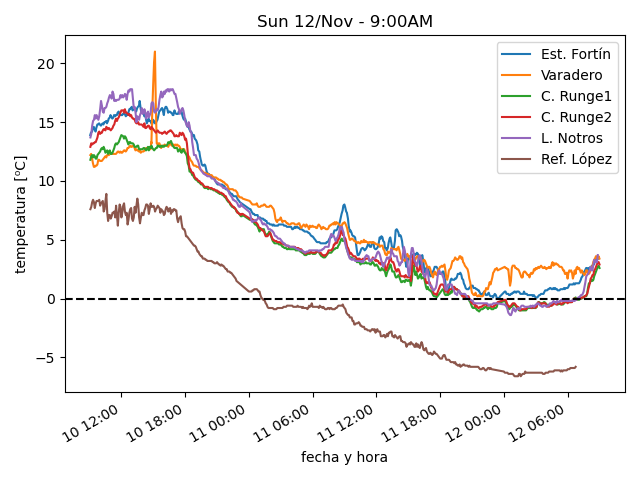
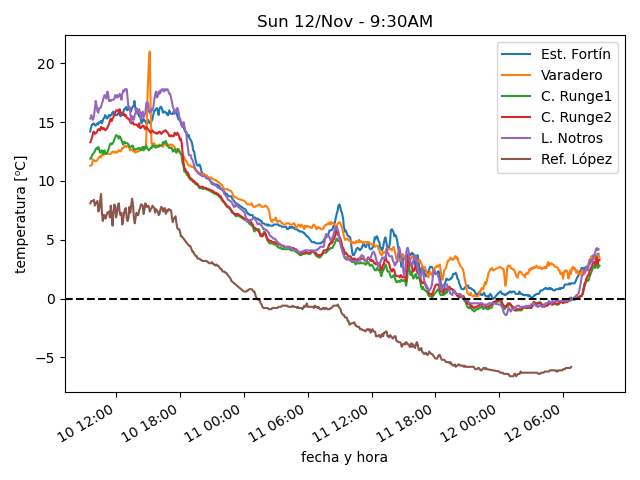
actualiza datos

diff --git a/estaciones/estacion4.html b/estaciones/estacion4.html
@@ -18,47 +18,47 @@
     </tr>
     <tr>
      <td class="stats_data">
-      8:59AM
+      9:24AM
      </td>
     </tr>
     <tr>
      <td class="stats_data">
-      2.9⁰C
+      3.3⁰C
      </td>
     </tr>
     <tr>
      <td class="stats_data">
-      -1.2⁰C
+      -1.1⁰C
      </td>
     </tr>
     <tr>
      <td class="stats_data">
-      74.7%
+      73.3%
      </td>
     </tr>
     <tr>
      <td class="stats_data">
-      1016.12hPa
+      1016.42hPa
      </td>
     </tr>
     <tr>
      <td class="stats_data">
-      0.7/1.8 km/hr WSW
+      1.8/2.8 km/hr SW
      </td>
     </tr>
     <tr>
      <td class="stats_data">
-      0.3 / 1.8 mm
+      0.79 / 3.0 mm
      </td>
     </tr>
     <tr>
      <td class="stats_data">
-      3.0
+      7.0
      </td>
     </tr>
     <tr>
      <td class="stats_data">
-      340.5 W/m²
+      792.6 W/m²
      </td>
     </tr>
    </tbody>

diff --git a/estaciones/estacion3.html b/estaciones/estacion3.html
@@ -18,47 +18,47 @@
     </tr>
     <tr>
      <td class="stats_data">
-      8:59AM
+      9:24AM
      </td>
     </tr>
     <tr>
      <td class="stats_data">
-      2.6⁰C
+      2.8⁰C
      </td>
     </tr>
     <tr>
      <td class="stats_data">
-      -1.0⁰C
+      -0.8⁰C
      </td>
     </tr>
     <tr>
      <td class="stats_data">
-      77.6%
+      76.7%
      </td>
     </tr>
     <tr>
      <td class="stats_data">
-      1007.72hPa
+      1007.62hPa
      </td>
     </tr>
     <tr>
      <td class="stats_data">
-      3.3/4.8 km/hr W
+      5.9/8.0 km/hr W
      </td>
     </tr>
     <tr>
      <td class="stats_data">
-      0.61 / 1.8 mm
+      1.3 / 1.19 mm
      </td>
     </tr>
     <tr>
      <td class="stats_data">
-      5.0
+      6.0
      </td>
     </tr>
     <tr>
      <td class="stats_data">
-      476.3 W/m²
+      568.3 W/m²
      </td>
     </tr>
    </tbody>

diff --git a/estaciones/estacion1.html b/estaciones/estacion1.html
@@ -18,32 +18,32 @@
     </tr>
     <tr>
      <td class="stats_data">
-      8:54AM
+      9:18AM
      </td>
     </tr>
     <tr>
      <td class="stats_data">
-      3.4⁰C
+      3.8⁰C
      </td>
     </tr>
     <tr>
      <td class="stats_data">
-      -3.3⁰C
+      -3.0⁰C
      </td>
     </tr>
     <tr>
      <td class="stats_data">
-      61.7%
+      61.0%
      </td>
     </tr>
     <tr>
      <td class="stats_data">
-      1018.63hPa
+      1018.96hPa
      </td>
     </tr>
     <tr>
      <td class="stats_data">
-      17.1/30.6 km/hr W
+      21.8/30.6 km/hr WNW
      </td>
     </tr>
     <tr>
@@ -53,12 +53,12 @@
     </tr>
     <tr>
      <td class="stats_data">
-      1.3
+      1.8
      </td>
     </tr>
     <tr>
      <td class="stats_data">
-      469.0 W/m²
+      552.0 W/m²
      </td>
     </tr>
    </tbody>

diff --git a/estaciones/estacion2.html b/estaciones/estacion2.html
@@ -18,32 +18,32 @@
     </tr>
     <tr>
      <td class="stats_data">
-      8:59AM
+      9:24AM
      </td>
     </tr>
     <tr>
      <td class="stats_data">
-      3.4⁰C
+      3.5⁰C
      </td>
     </tr>
     <tr>
      <td class="stats_data">
-      -0.5⁰C
+      -0.9⁰C
      </td>
     </tr>
     <tr>
      <td class="stats_data">
-      75.6%
+      73.3%
      </td>
     </tr>
     <tr>
      <td class="stats_data">
-      1022.82hPa
+      1022.93hPa
      </td>
     </tr>
     <tr>
      <td class="stats_data">
-      25.1/31.0 km/hr NW
+      9.4/13.9 km/hr WNW
      </td>
     </tr>
     <tr>
@@ -58,7 +58,7 @@
     </tr>
     <tr>
      <td class="stats_data">
-      149.1 W/m²
+      115.4 W/m²
      </td>
     </tr>
    </tbody>

diff --git a/estaciones/estacion5.html b/estaciones/estacion5.html
@@ -18,17 +18,17 @@
     </tr>
     <tr>
      <td class="stats_data">
-      8:50AM
+      9:20AM
      </td>
     </tr>
     <tr>
      <td class="stats_data">
-      3.7⁰C
+      4.2⁰C
      </td>
     </tr>
     <tr>
      <td class="stats_data">
-      -0.4⁰C
+      -0.2⁰C
      </td>
     </tr>
     <tr>
@@ -43,12 +43,12 @@
     </tr>
     <tr>
      <td class="stats_data">
-      0.0/2.6 km/hr N
+      0.0/3.5 km/hr N
      </td>
     </tr>
     <tr>
      <td class="stats_data">
-      0.25 / 0.25 mm
+      1.02 / 0.76 mm
      </td>
     </tr>
     <tr>
